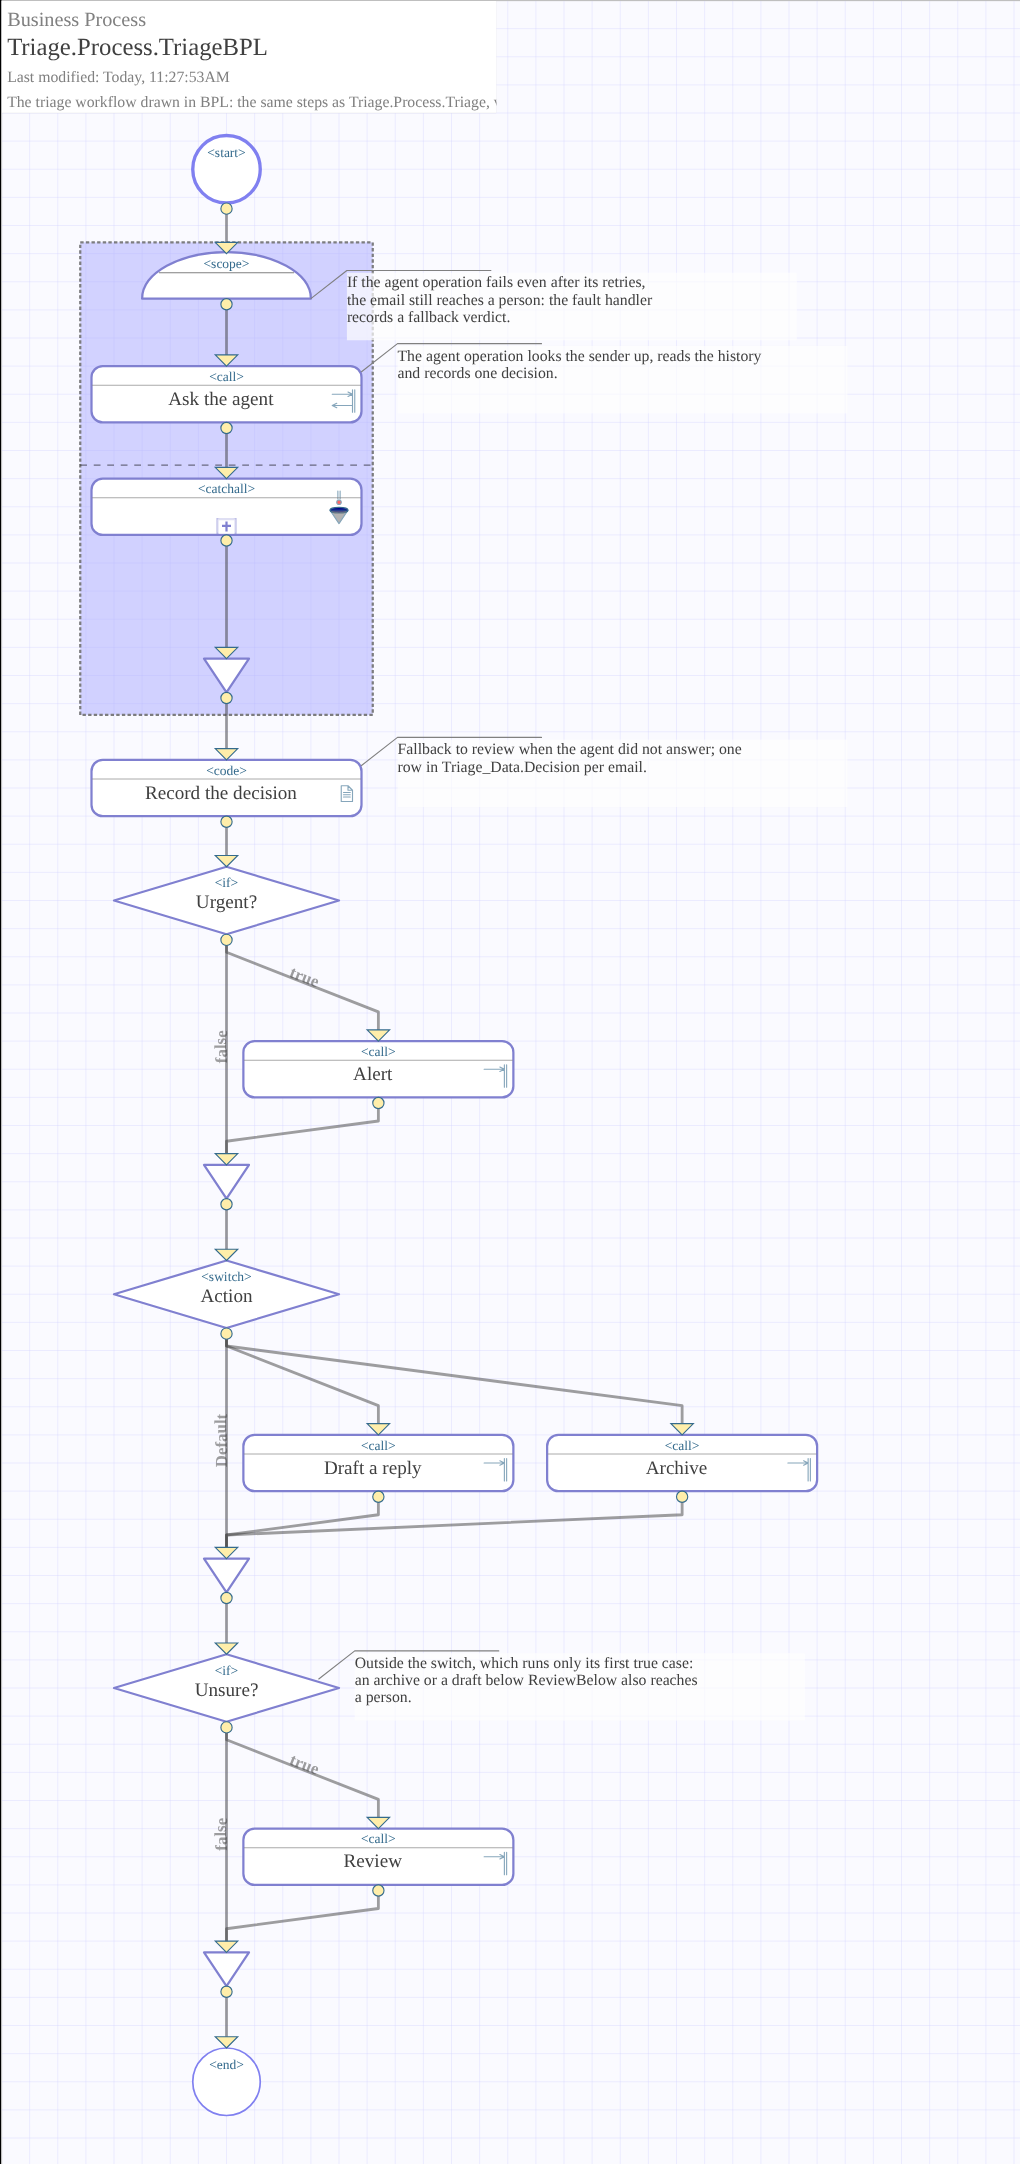
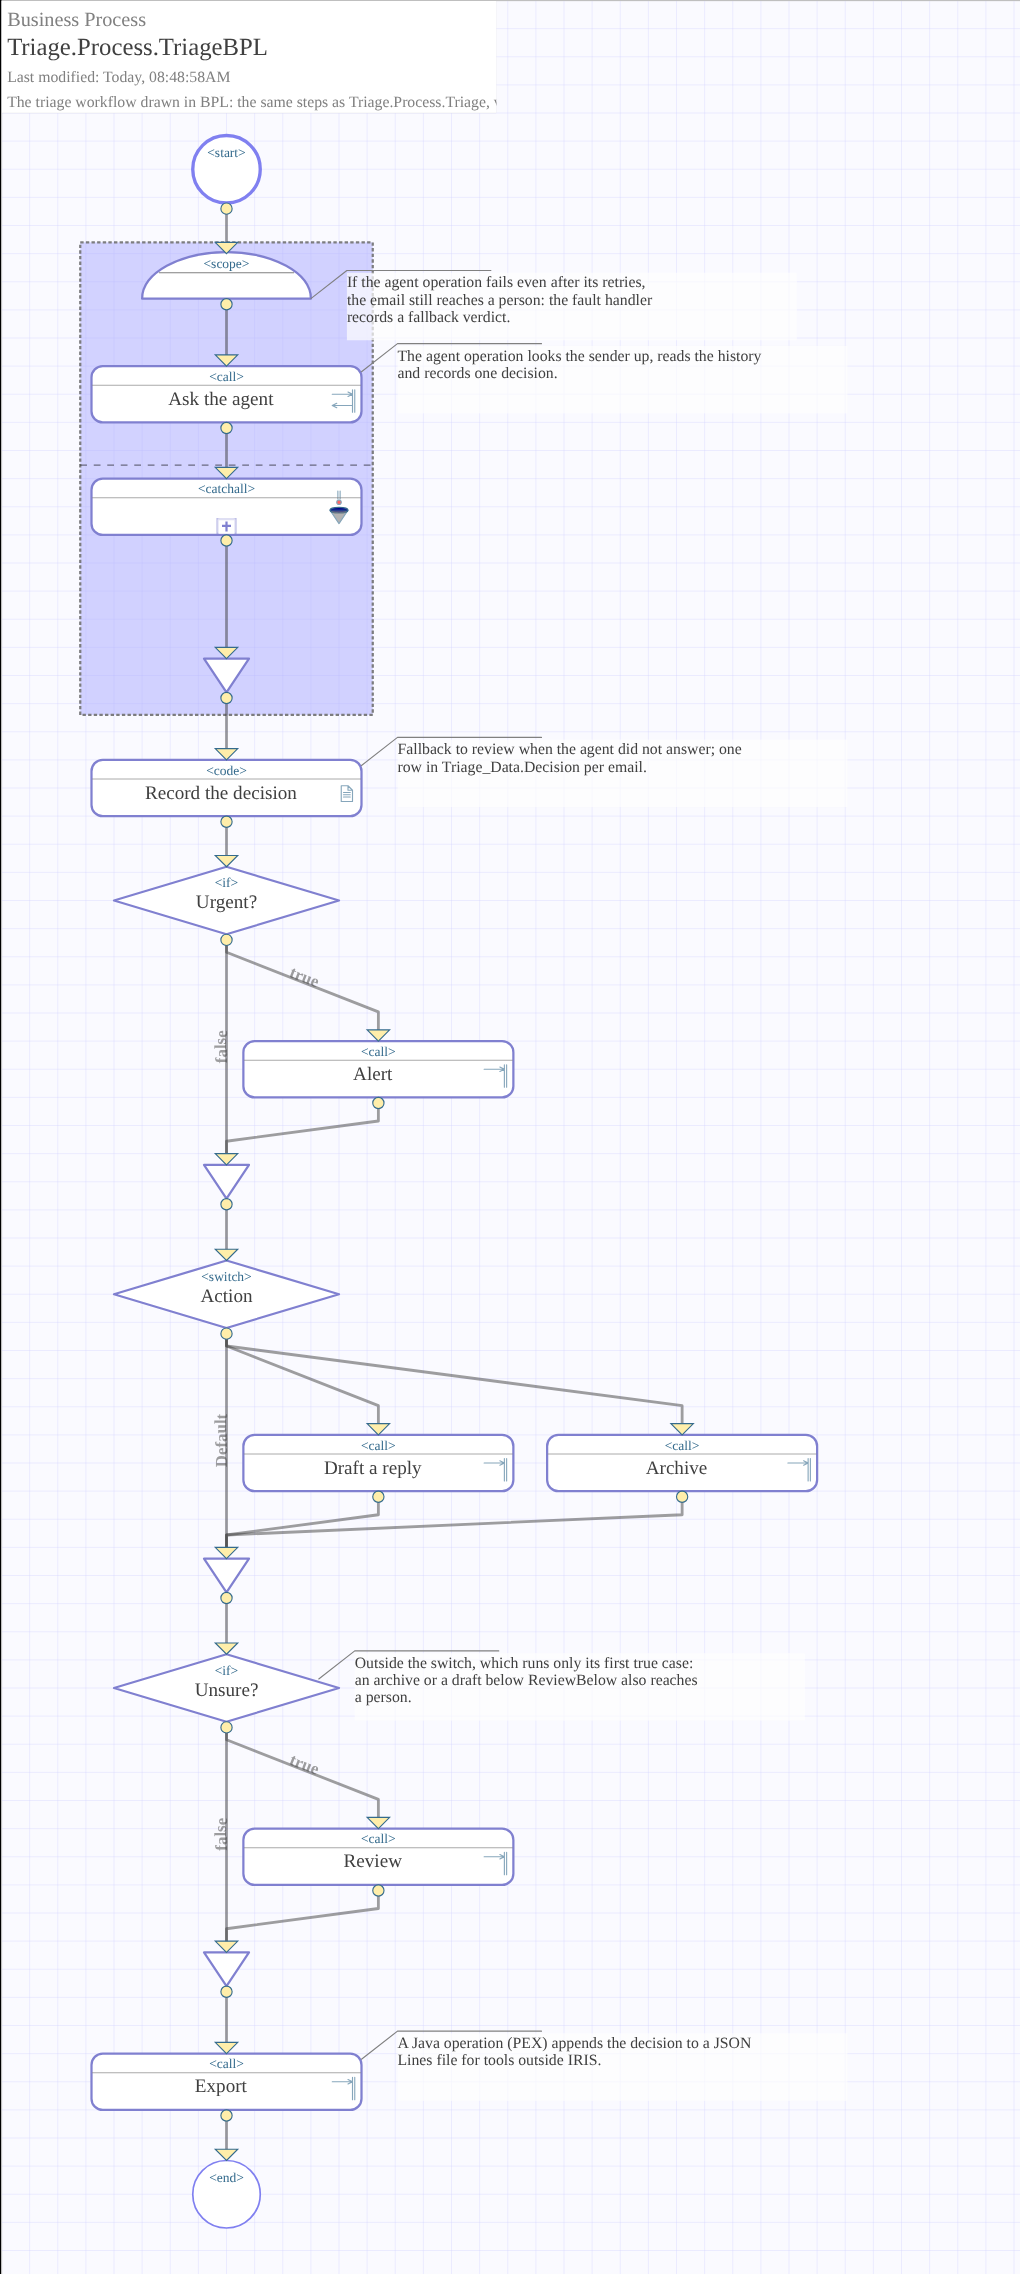
0.5.7: Triage.Export, a Business Operation in Java with PEX: both processes send it every decision and it appends each one to a JSON Lines file; the install compiles it with the JDK of the AI Hub image; BPL and trace screenshots retaken

diff --git a/java/triage/ExportOperation.java b/java/triage/ExportOperation.java
@@ -1,0 +1,78 @@
+package triage;
+
+import com.intersystems.enslib.pex.BusinessOperation;
+import com.intersystems.jdbc.IRISObject;
+
+import java.nio.charset.StandardCharsets;
+import java.nio.file.Files;
+import java.nio.file.Path;
+import java.nio.file.Paths;
+import java.nio.file.StandardOpenOption;
+import java.time.Instant;
+
+/**
+ * Triage.Export: a Business Operation written in Java with PEX. Both triage processes send it every decision
+ * (Triage.Msg.Decision) asynchronously, and it appends each one to a JSON Lines file, one object per line, for tools
+ * outside IRIS: jq, a spreadsheet, a log shipper. The email body stays in IRIS.
+ */
+public class ExportOperation extends BusinessOperation {
+
+    /** The file to append to: the item's %remoteSettings (Path=...), which Triage.Setup.Configure fills in. */
+    public String Path = "decisions.jsonl";
+
+    private Path file;
+
+    @Override
+    public void OnInit() throws Exception {
+        file = Paths.get(Path).toAbsolutePath();
+        Files.createDirectories(file.getParent());
+        LOGINFO("Appending decisions to " + file);
+    }
+
+    @Override
+    public void OnTearDown() throws Exception {
+    }
+
+    @Override
+    public Object OnMessage(Object request) throws Exception {
+        String line = toJson((IRISObject) request) + "\n";
+        Files.write(file, line.getBytes(StandardCharsets.UTF_8), StandardOpenOption.CREATE, StandardOpenOption.APPEND);
+        return null;
+    }
+
+    /** One decision as a JSON object; the properties are read from the IRIS message through its proxy. */
+    public static String toJson(IRISObject decision) {
+        StringBuilder json = new StringBuilder("{\"exportedAt\":\"").append(Instant.now()).append('"');
+        json.append(",\"decisionId\":").append(decision.getLong("DecisionId"));
+        String[][] fields = {{"messageId", "MessageId"}, {"sender", "Sender"}, {"subject", "Subject"},
+            {"category", "Category"}, {"urgency", "Urgency"}, {"action", "Action"}, {"reason", "Reason"}};
+        for (String[] field : fields) {
+            json.append(",\"").append(field[0]).append("\":").append(quote(decision.getString(field[1])));
+        }
+        json.append(",\"confidence\":").append(decision.getBigDecimal("Confidence"));
+        return json.append('}').toString();
+    }
+
+    static String quote(String text) {
+        if (text == null) {
+            return "null";
+        }
+        StringBuilder out = new StringBuilder(text.length() + 2).append('"');
+        for (char c : text.toCharArray()) {
+            switch (c) {
+                case '"': out.append("\\\""); break;
+                case '\\': out.append("\\\\"); break;
+                case '\n': out.append("\\n"); break;
+                case '\r': out.append("\\r"); break;
+                case '\t': out.append("\\t"); break;
+                default:
+                    if (c < 0x20 || c == ' ' || c == ' ') {
+                        out.append(String.format("\\u%04x", (int) c));
+                    } else {
+                        out.append(c);
+                    }
+            }
+        }
+        return out.append('"').toString();
+    }
+}

diff --git a/README.md b/README.md
@@ -2,7 +2,7 @@
 
 <img src="docs/logo.png" alt="inbox triage" width="120" align="right">
 
-An InterSystems IRIS Interoperability production that reads a mailbox, asks an AI Hub agent what each message needs, and acts on the answer: an alert for urgent mail, a draft reply for a quick question, the archive, or a task for a person in the Workflow Inbox when the agent is unsure. What the person decides becomes a precedent in an IRIS Vector Search knowledge base, and the agent decides the next email like it the same way. Every decision, every tool call the agent made and every draft is a row in IRIS, and every step is a message in the production's trace.
+An InterSystems IRIS Interoperability production that reads a mailbox, asks an AI Hub agent what each message needs, and acts on the answer: an alert for urgent mail, a draft reply for a quick question, the archive, or a task for a person in the Workflow Inbox when the agent is unsure. What the person decides becomes a precedent in an IRIS Vector Search knowledge base, and the agent decides the next email like it the same way. Every decision, every tool call the agent made and every draft is a row in IRIS, and every step is a message in the production's trace. A Business Operation written in Java with PEX also appends every decision to a JSON Lines file, for tools outside IRIS.
 
 It is modeled on the inbox monitor I run for my own freelance work, where pitches to editors, client threads, hosting notices and newsletters land in one mailbox and the urgent ones must not wait. Built for the InterSystems "AI Agents in Interoperability Workflows" contest on the AI Hub Early Access build.
 
@@ -21,8 +21,8 @@ Online demo: http://14.225.224.76:8091/ (send a sample or your own email to the 
                                               (ObjectScript)    │           │ %AI.Agent "Classifier"      │
                                                                 │  Verdict  │  LookupContact   (SQL tool) │
                    Triage_Data.Decision ◄───────────────────────┘           │  SenderHistory   (SQL tool) │
-                              │                                             │  search_precedents (vector) │
-                              │                                             │  RecordDecision             │
+                              ├──► Triage.Export (Java, PEX)                │  search_precedents (vector) │
+                              │    decisions.jsonl, one line each           │  RecordDecision             │
             ┌─────────────────┼──────────────────┬─────────────────┐        │ policies: one decision,     │
             ▼                 ▼                  ▼                 ▼        │           audit every call  │
       Triage.Alert      Triage.Review      Triage.Draft      Triage.Archive └─────────────────────────────┘
@@ -45,6 +45,7 @@ Online demo: http://14.225.224.76:8091/ (send a sample or your own email to the 
 
    <img src="docs/workflow.png" alt="A review task in the Workflow Inbox: the agent's verdict and reason, and the Alert, Draft and Archive actions" width="760">
 8. **A person's decision becomes a precedent (IRIS Vector Search).** `Triage.Agent.Precedents` is an AI Hub knowledge base, `%AI.RAG.KnowledgeBase` over `%AI.RAG.VectorStore.IRIS`: the table `Triage_Data.Precedent` with 384-dimension vectors from the FastEmbed model that ships with AI Hub, so no embedding key is needed (the model, about 87 MB, is downloaded once, on first use). The agent operation opens it once, gives the agent its `search_precedents` tool, and indexes every email the agent decides together with the decision. When a person decides an email in the Workflow Inbox, `Triage.Review` sends the decision back to `Triage.Agent`, which re-indexes that email as "Decided by a person in review". The classifier's first rule is to follow such a precedent. In the test run below, the follow-up from a stranger went to review; after it was archived in the Workflow Inbox, the same email sent twice more was archived by the agent with confidence 0.95, and its reason cited the person's decision.
+9. **A Java operation exports every decision (PEX).** `Triage.Export` is a Business Operation written in Java with the Production EXtension framework: `java/triage/ExportOperation.java` extends `com.intersystems.enslib.pex.BusinessOperation`, and the production hosts it as `EnsLib.PEX.BusinessOperation` on the `%Java Server` external language server. Both processes send it every decision asynchronously, after the routing, and it appends one JSON object per line to `decisions.jsonl`: the time, the decision id, the Message-ID, the sender, the subject, the category, the urgency, the action, the reason and the confidence; the body stays in IRIS. The file is for tools outside IRIS, such as `jq`, a spreadsheet or a log shipper. The operation reads the IRIS message through its proxy (`IRISObject.getString("Category")`), so no message class is repeated in Java. The install compiles it with `javac` from the JDK that ships in the AI Hub images (Temurin 11) into `mgr/iris-inbox-triage/classes`, and the file is `mgr/iris-inbox-triage/decisions.jsonl` (the item's `%remoteSettings`, `Path=...`).
 
 ## Tracing the agent with Interoperability
 
@@ -94,10 +95,11 @@ The build installs IPM and loads the module with `zpm "load"`; the production st
 
 - **Interoperability → View → Messages**: open any `Triage.Msg.Email` and its trace: the agent's request, its verdict with the reason and statistics, and the operation that acted on it.
 
-  <img src="docs/trace.png" alt="Visual Trace of one email read over IMAP: service, BPL process, the agent's verdict with its model, tokens and prompt version, the alert" width="760">
+  <img src="docs/trace.png" alt="Visual Trace of one email read over IMAP: service, BPL process, the agent's verdict with its model, tokens and prompt version, the alert, the decision sent to the Java export" width="880">
 - **Workflow Inbox** at http://localhost:52773/csp/user/_DeepSee.UserPortal.Workflow.zen (the Analytics User Portal; the setup enables Analytics for `/csp/user`): the review task for the unclear email. Click it, **Accept**, then **Alert**, **Draft** or **Archive**. From the command line, `scripts/review.sh` lists the open tasks and `scripts/review.sh Archive` completes them the same way.
 - **Interoperability → Build → Business Processes → Triage.Process.TriageBPL**: the workflow diagram.
 - **Interoperability → Configure → Production**: the running production; the IMAP service shows the server and the mailbox it polls.
+- **The decision feed** written by the Java operation: `docker exec iris-inbox-triage tail -n 3 /usr/irissys/mgr/iris-inbox-triage/decisions.jsonl`.
 - **System Explorer → SQL**:
 
 ```sql
@@ -127,7 +129,7 @@ zpm "install iris-inbox-triage"
 do ##class(Ens.Director).StartProduction("Triage.Production")
 ```
 
-Set `GEMINI_API_KEY` and the mail variables below in the environment of IRIS before the install; if you set them later, run `do ##class(Triage.Setup).Configure()`. Without `MAIL_HOST` the production looks for a server named `mail`, and the IMAP service logs an error until it finds one. From then on the production starts with IRIS. The folder service stays off here, because `/data/inbox` exists only in the Docker image.
+Set `GEMINI_API_KEY` and the mail variables below in the environment of IRIS before the install; if you set them later, run `do ##class(Triage.Setup).Configure()`. Without `MAIL_HOST` the production looks for a server named `mail`, and the IMAP service logs an error until it finds one. From then on the production starts with IRIS. The folder service stays off here, because `/data/inbox` exists only in the Docker image. The install compiles the Java operation with the `javac` of the AI Hub image; on an instance without a JDK, `Triage.Export` is not built and does not start, and the rest of the production works without it.
 
 ## Configuration
 
@@ -150,7 +152,7 @@ To use another provider, change `PROVIDER`, `MODEL` and `APIKEY` in `Triage.Agen
 
 ```
 src/cls/Triage/
-  Production.cls            the production: 3 services, 3 processes, 5 operations (one of them the Workflow role)
+  Production.cls            the production: 3 services, 3 processes, 6 operations (one of them the Workflow role, one in Java)
   Adapter/IMAPInbound.cls   custom inbound adapter: IMAP in Embedded Python (imaplib), flag after processing
   Service/IMAPInbox.cls     IMAP mailbox -> Triage.Msg.Email
   Service/MailInbox.cls     POP3 mailbox -> Triage.Msg.Email (MAIL_PROTOCOL=pop3)
@@ -171,7 +173,8 @@ src/cls/Triage/
   Policy/Audit.cls          %AI.Policy.Audit: every tool call -> Triage_Data.ToolCall
   Msg/                      Email (request), Verdict (agent response), Decision (to the operations)
   Data/                     Decision, Contact, Alert, Draft, ToolCall tables
-  Setup.cls                 demo contacts, the reviewer role; runtime configuration from the environment
+  Setup.cls                 demo contacts, the reviewer role, the Java build; runtime configuration from the environment
+java/triage/ExportOperation.java  Triage.Export: a PEX Business Operation in Java, every decision as a JSON line
 python/triage_mail.py       MIME decoding with Python's email package; IPM copies it to the IRIS python directory
 tests/Triage/Test/          %UnitTest cases, run by scripts/test.sh
 data/samples/               nine made-up emails: HTML-only mail, a PDF attachment, one that needs a person
@@ -210,6 +213,7 @@ Built on 2026.3.0AI.154.0 and re-tested on 2027.1.0AI.109.0, where it runs witho
 - In this build `%AI.RAG.Embedding.FastEmbed.EmbedBatch()` answers "use the Rust bridge directly", so the bundled embedding model is reachable only through `%AI.RAG.KnowledgeBase` (indexing and its search tool), not from ObjectScript. The knowledge base splits text into chunks by paragraph, so each precedent is a single paragraph (line breaks become spaces) that starts with its decision and keeps the email short: otherwise the chunk a search returns may not say what was decided.
 - A knowledge-base tool added with `AddToAgent()` is not covered by the policies declared in the toolset. The agent's tool manager takes an audit policy of its own (`SetAuditPolicy`), but that one sees the toolset's tools too, and they were logged twice; the copy attached there logs only `search_` tools (`Triage.Policy.Audit.ToolPrefix`).
 - An agent that can read its own earlier decisions can take them for evidence. In testing, an unknown sender who claimed an earlier call and asked for bank details was first classified as a client thread; the next email from the same domain was then decided with the reason "prior history as a client", citing that first decision. The instructions now say that only `LookupContact` makes a sender known, and such an email goes to a person.
+- The `%Java Server` external language server starts with only the JDBC driver on its classpath, so a PEX class fails at start with `NoClassDefFoundError: com/intersystems/enslib/pex/BusinessOperation` unless the item's `%gatewayExtraClasspaths` also lists `dev/java/lib/1.8/intersystems-pex-1.0.0-shaded.jar` (entries are separated by `|`). `Triage.Setup.Configure` puts the PEX jar and the compiled classes there.
 - `EnsLib.EMail.InboundAdapter` skips a message on later polls once the service returned an error for it. The mail service therefore never returns an error: a message it cannot parse still goes to the process with its sender and subject, and the agent decides it like any other.
 
 ## Author
